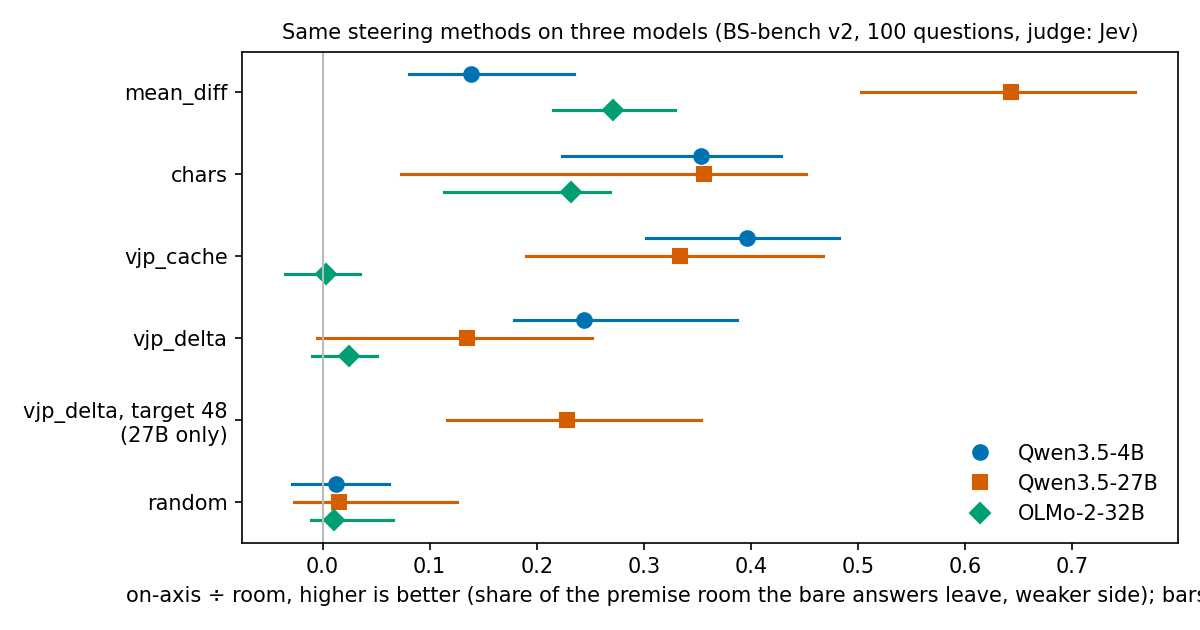
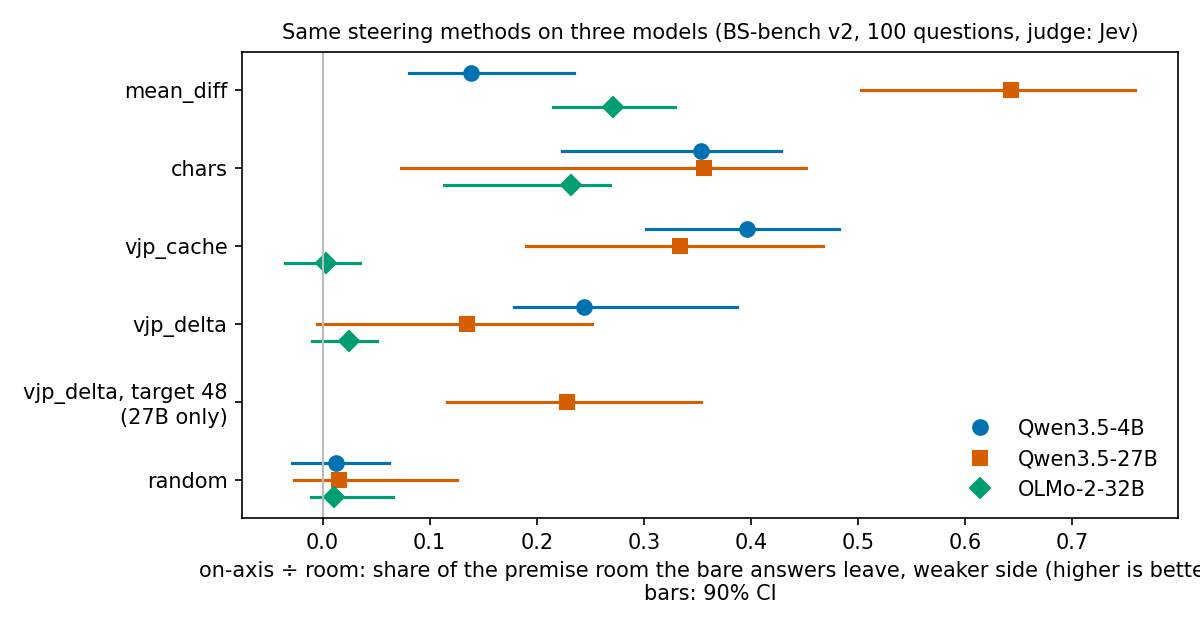
compare plot: x label fits

diff --git a/slop/reviews/2026-09-26_27b/compare.py b/slop/reviews/2026-09-26_27b/compare.py
@@ -49,7 +49,7 @@ for j, (m, _) in enumerate(MODELS):
 ax.axvline(0, color="#bbbbbb", lw=1)
 ax.set_yticks(range(len(methods)), [m.replace("vjp_delta-t48", "vjp_delta, target 48\n(27B only)") for m in methods])
 ax.invert_yaxis()
-ax.set_xlabel("on-axis ÷ room, higher is better (share of the premise room the bare answers leave, weaker side); bars: 90% CI")
+ax.set_xlabel("on-axis ÷ room: share of the premise room the bare answers leave, weaker side (higher is better)\nbars: 90% CI")
 handles = [plt.Line2D([], [], marker=marker[m], color=color[m], ls="", ms=7) for m, _ in MODELS]
 ax.legend(handles, [m for m, _ in MODELS], loc="lower right", frameon=False)
 ax.set_title("Same steering methods on three models (BS-bench v2, 100 questions, judge: Jev)", fontsize=10)
